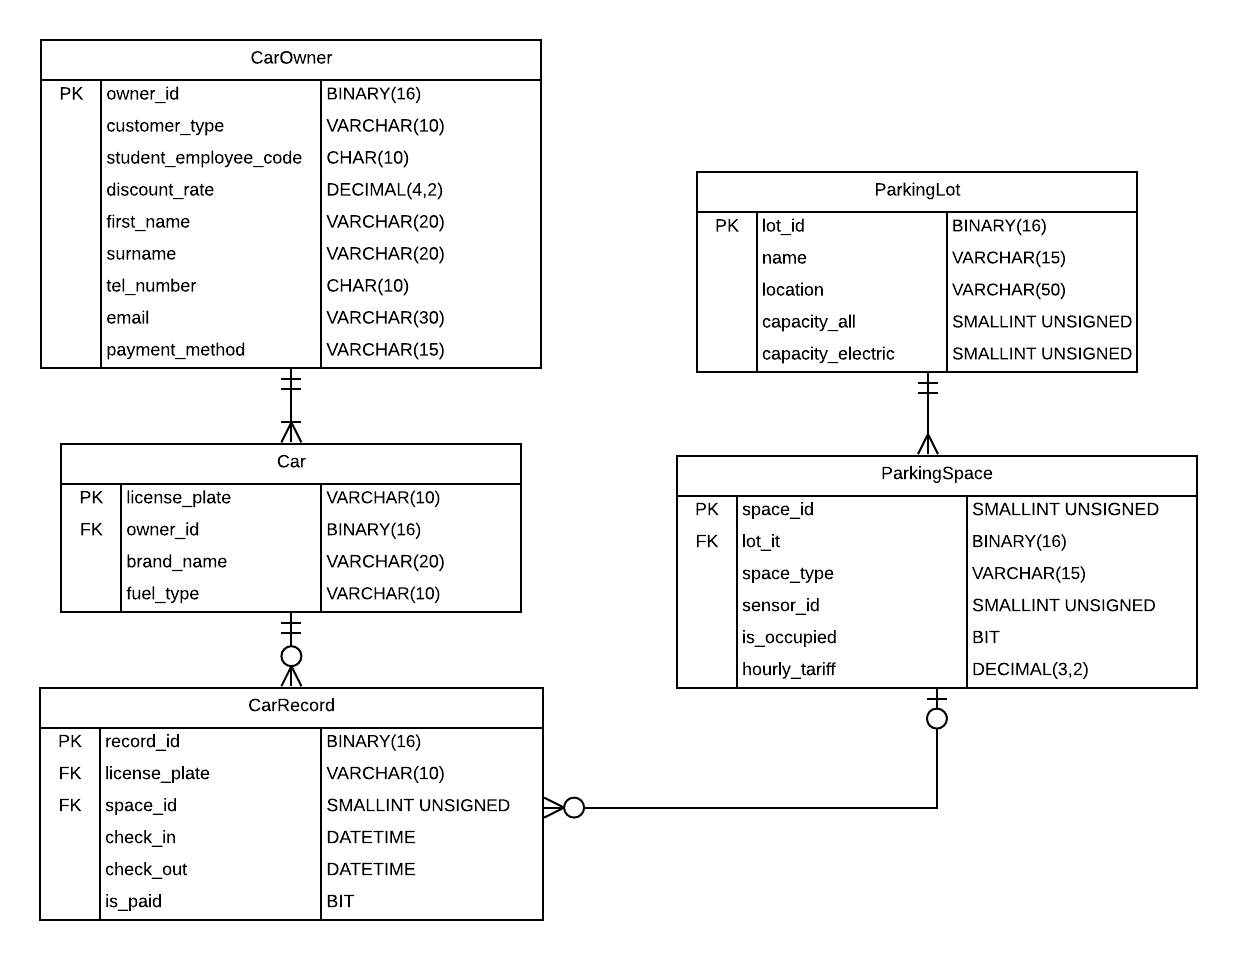
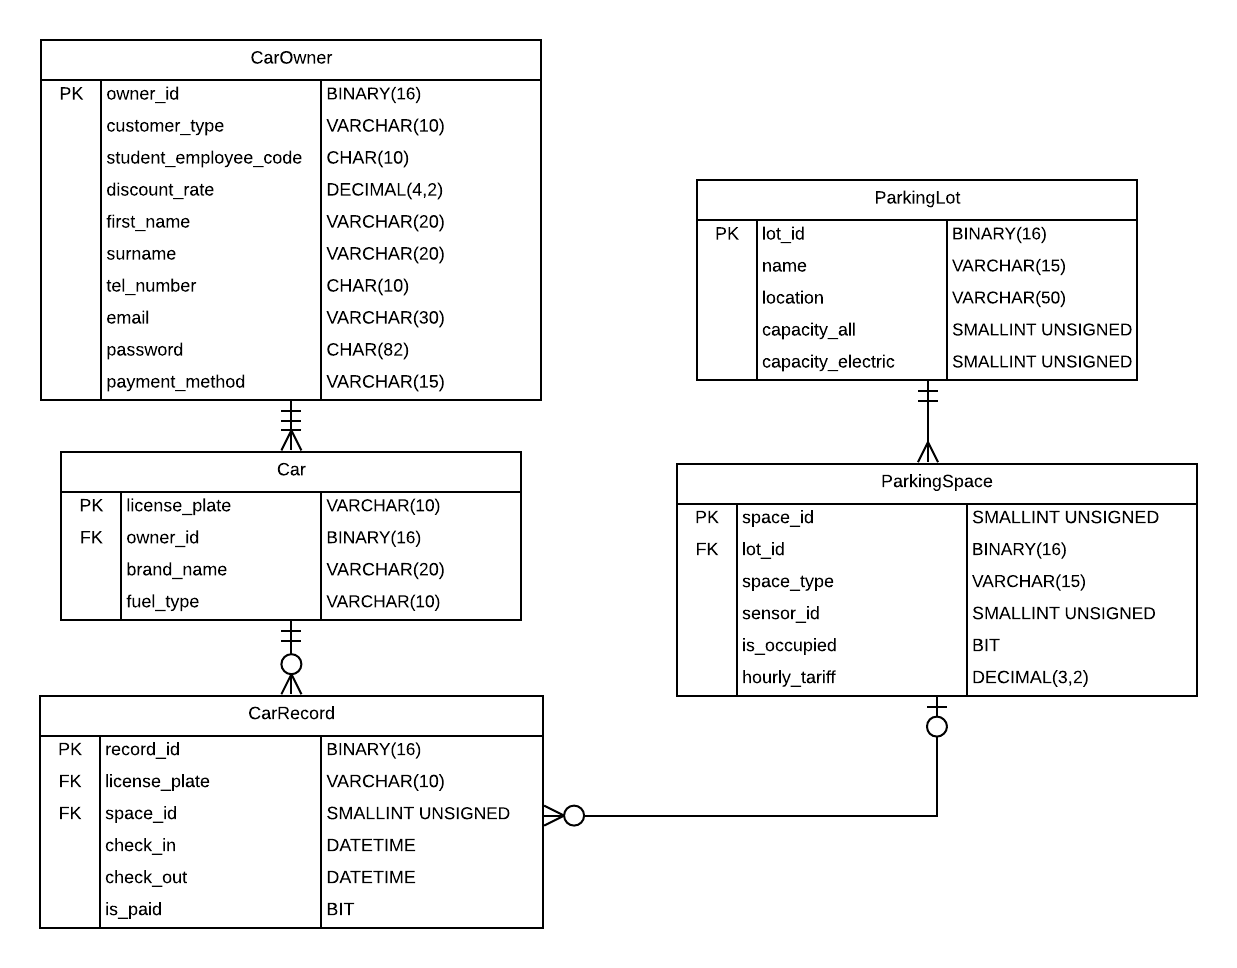
Update README

diff --git a/README.md b/README.md
@@ -2,16 +2,132 @@
 ## Introduction
 ---
 Zernike Facilities is in the process of building a new parkinglot - P7. P7 will be ticketless and will keep track of which parking places are available/occupied. This inspired management to order the creation of a new parking app and to upgrade the old parking lots to the new system. As a future engineer you receive the order to develop the new system that will manage the parking lots.
-## Development procedure
+
+## Database Structure
 ---
-### 1. Setup the Application
-`The application will be based on the micro web framework - Flask.`
-### 2. Define and Access the Database
+<img src=./parking_system/static/images/erd.png width=640>
+
+- `ParkingLot` table:
+    - `lot_id` column
+        - *data type*: BINARY(16), storing an UUID, SMALLINT is also possible;
+        - *description*: Primary key, to store an unique identifier for each parking lot;
+    - `name` column 
+        - *data type*: VARCHAR(15), variable-length string with limit of 15 characters;
+        - *description*: to store the name of the parking lot (e.g. "Zernike P7");
+    - `location` column 
+    - *data type*: VARCHAR(50), variable-length string with limit of 50 characters;
+        - *description*: to store information about the location of the lot;
+    - `capacity_all` column 
+        - *data type*: SMALLINT UNSIGNED, max. 65535;
+        - *description*: to store the number of all parking spaces (*charing + non-charging*) at the parking lot;
+    - `capacity_electric` column
+        - *data type*: SMALLINT UNSIGNED, max. 65535;
+        - *description*: to store the number of *charging* parking spaces at the parking lot;
+- `ParkingSpace` table:
+    - `space_id` column
+        - *data type*: SMALLINT UNSIGNED, max. 65535;
+        - *description*: Primary key, to store an unique identifier for each parking space/spot;
+    - `lot_id` column 
+        - *data type*: BINARY(16), storing an UUID;
+        - *description*: Foreign key, referring to an instance of the "parent" table, specifying to which parking lot does this space belong to;
+    - `space_type` column
+        - *data type*: VARCHAR(15), variable-length string with limit of 15 characters;
+        - *description*: to store information about the type of the parking space (*charing/non-chargin*);
+    - `sensor_id` column
+        - *data type*: SMALLINT UNSIGNED, max. 65535;
+        - *description*: if sensor is present, to uniquely identify which one is attached to the parking space;
+    - `is_occupied` column
+        - *data type*: BIT, either 0 or 1;
+        - *description*: Binary number (0 or 1) to represent the current state (either free or occupied) of the parking space;
+    - `hourly_tariff` column
+        -  *data type*: DECIMAL(3,2), efficient way to store numbers representing monetary value;
+        - *description*: to specify the parking fee of the space per hour;
+- `CarRecord` table:
+(a record stores infomation about a single visit of a car to the parking lot, i.e. history)
+    - `record_id` column 
+        - *data type*: BINARY(16), storing an UUID, INT or BIGINT is also possible;
+        - *description*: Primary key, to store an unique indentifier for each record;
+    - `license_plate` column
+        - *data type*: VARCHAR(10), variable-length string with limit of 10 characters. License plates are usually not longer than 10 characters;
+        - *description*: Foreign key, referring to an instance of the Car table, specifying to which car does this record belong to;
+    - `space_id` column
+        - *data type*: SMALLINT UNSIGNED, max. 65535;
+        - *description*: Foreign key, referring to an instance of the ParkingSpace table, specifying based on which parking space was this record created (i.e. where was the car parked during this visit/record);
+    - `check_in` column
+        - *data type*: DATETIME;
+        - *description*: to store information about the check-in time of the car;
+    - `check_out` column
+        - *data type*: DATETIME;
+        - *description*: to store information about the check-out time of the car;
+    - `is_paid` column
+        - *data type*: BIT, either 0 or 1;
+        - *description*: Binary number (0/1) to specify if the parking visit is paid or not.
+- `Car` table:
+    - `license_plate` column
+        - *data type*: VARCHAR(10), variable-length string with limit of 10 characters. License plates are usually not longer than 10 characters;
+        - *description*: Primary key, to store the license plate information of the car which uniquely identifies it;
+    - `owner_id` column 
+        - *data type*: BINARY(16), UUIDs address security concerns and  prevent guessing of the owner id;
+        - *description*: Foreign key, referring to an instance of the CarOwner table, specifying to which owner does this car belong to;
+    - `brand_name` column
+        - *data type*: VARCHAR(20), variable-length string with limit of 20 characters;
+        - *description*: to store information about the brand of the car;
+    - `fuel_type` column
+        - *data type*: VARCHAR(10), variable-length string with limit of 10 characters;
+        - *description*: to store information about the fuel type of the car;
+- `CarOwner` table;
+    - `owner_id` column 
+        - *data type*: BINARY(16), UUIDs address security concerns and  prevent guessing of the owner id;
+        - *description*: Primary key, to store an unique identifier for each owner;
+    - `customer_type` column
+        - *data type*: VARCHAR(10), variable-length string with limit of 10 characters (Student/Hanze/RUG);
+        - *description*: to store infomation about the relation the owner has to the parking lot, e.g. working at Hanze UAS or RUG, or beign a student;
+    - `student_employee_code` column
+        - *data type*: CHAR(10), constant-length string with limit of 10 characters, university codes are usually standard and have constant length;
+        - *description*: if available, to store information about the unique code related to the universities;  
+    - `discount_rate` column
+        -  *data type*: DECIMAL(4,2), efficient way to store numbers representing percentage value;
+        - *description*: to store information about the discount the owner receives for his parking records;
+    - `first_name` column
+        - *data type*: VARCHAR(20), variable-length string with limit of 20 characters;
+        - *description*: to store information about the first name of the owner;
+    - `surname` column
+        - *data type*: VARCHAR(20), variable-length string with limit of 20 characters;
+        - *description*: to store information about the surname of the owner;
+    - `tel_number` column
+        - *data type*: CHAR(10), constant-length string with limit of 10 characters, telephone numbers are usually standard and have constant length;
+        - *description*: to store the telephone number of the owner;
+    - `email` column
+        - *data type*: VARCHAR(30), variable-length string with limit of 30 characters;
+        - *description*: to store the email of the owner;
+    - `password` column
+        - *data type*: CHAR(82), constant-length string with limit of 82 characters, hashing algorithms produces large strings which are difficult to reverse;
+        - *description*: to store a hashed version of the password of the owner, used for login and verification with the app;
+    - `payment_method` column
+        - *data type*: VARCHAR(15), variable-length string with limit of 15 characters (manual/direct debit);
+        - *description*: to store information about the method the owner prefers to pay out his parking cost (via manual payments or direct debit);
+
+#### Different devices connect to the API 
+- `Users` - can login or register and receive information through the Zernike Parking app, thus require SELECT, INSERT, UPDATE privileges (parking_system_read + parking_system_write ROLEs)
+- `Billboard` - should request and receive information about the parking spaces, thus requires SELECT privileges (parking_system_read ROLE)
+- `Ticket booth` - can register visitors and request an overview of the available spaces, thus requires SELECT, INSERT, UPDATE privileges (parking_system_read + parking_system_write ROLEs)
+- `Cameras` - require INSERT, UPDATE privileges to store information about the license plate and the parking spaces of the cars (parking_system_write ROLE)
+- `Sensors` - require UPDATE privileges to store information about the parking spaces, whether they are free or occupied (parking_system_write ROLE)
+- `Finance app` - should request past information about the overall state of the lot, thus requires SELECT privileges (parking_system_read ROLE)
+- `Maintenance app` - should have access to all and thus require complete admin privileges
+
+## Development Process
+---
+### 1. Define and Access the Database
 `The application will use a MySQL database.`
 >Note: I will be using the *MySQL connector/Python* as my database API wrapper. `mysql-connector` is an all-in python module supported by MySQL.
-### 3. Create Blueprints & Views
+### 2. Use Pipenv
+>Pipenv is a tool that creates a virtualenv and manages the project dependencies.
+### 3. Setup the Application
+`The application will be based on the micro web framework - Flask.`
+### 4. Create Blueprints & Views
 >A Blueprint is a way to organize a group of related views and other code. A "view" function is the code you write to respond to requests to your application. Flask uses patterns to match the incoming request URL to the view that should handle it. The view returns data that Flask turns into an outgoing response. Rather than registering views and other code directly with an application, they are collected and registered together with a blueprint. Then the blueprint is registered with the application when it is available in the factory function.
-### 4. Use Templates & Static Files
+### 5. Use Templates & Static Files
 >Templates are files, usually html, that contain static data as well as placeholders for dynamic data. A template is rendered with specific data to produce a final document. Flask uses the Jinja template library to render templates.
 
 ## Usage
